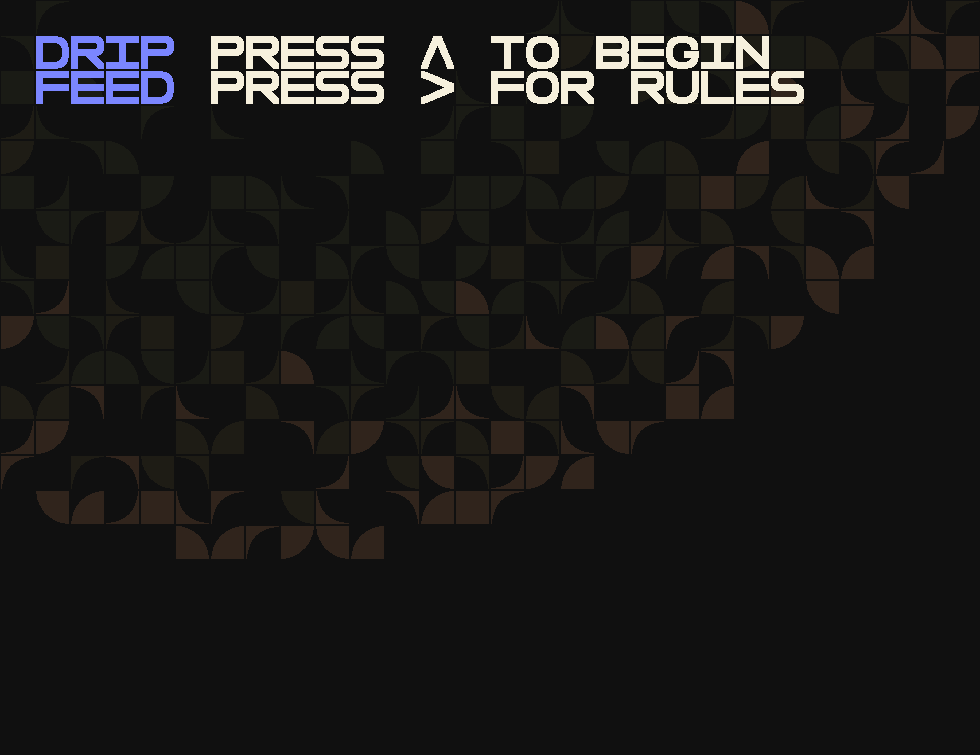
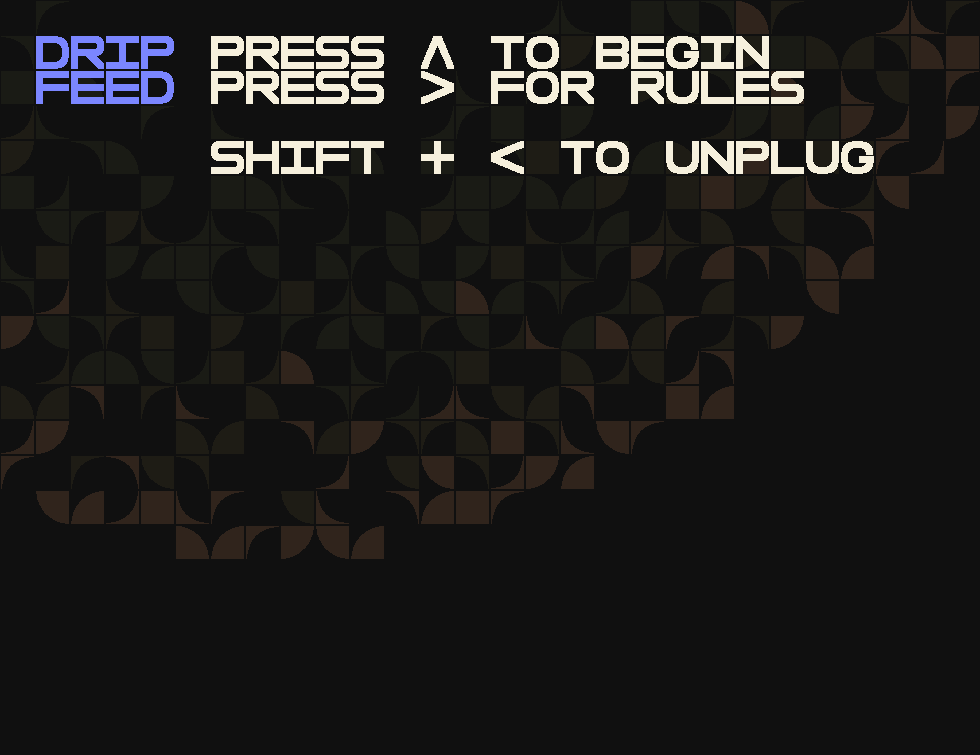
shift + < to unplug (reset hi-score)

diff --git a/src/scenes/Menu.js b/src/scenes/Menu.js
@@ -11,6 +11,10 @@ class Menu extends Phaser.Scene {
 
         // define cursors
         cursors = this.input.keyboard.createCursorKeys()
+
+        // hardcoding sorry (also taking advantage of my lack of lower-case letters) ->
+        this.reset = this.add.bitmapText(210, 175, 'rozyFont', 'reset', 35).setOrigin(0, 0)
+        this.successful = this.add.bitmapText(420, 175, 'rozyFont', 'successful', 35).setOrigin(0, 0)
     }
 
     update() {
@@ -21,6 +25,12 @@ class Menu extends Phaser.Scene {
         if(cursors.right.isDown) {
             this.sound.play('click2')
             this.scene.start('rulesScene')
+        }
+        if(cursors.shift.isDown && cursors.left.isDown) {
+            this.sound.play('click3')
+            this.reset.text = 'RESET'
+            this.successful.text = 'SUCCESSFUL'
+            localStorage.clear()
         }
     }
 }

diff --git a/src/scenes/Play.js b/src/scenes/Play.js
@@ -132,7 +132,7 @@ class Play extends Phaser.Scene {
             this.finalScoreUI.text = this.FINAL_SCORE
             this.exParticles()
             this.ex.move()
-            this.cameras.main.shake(80, 0.01)
+            this.cameras.main.shake(80, 0.02)
             this.sound.play('exCollide')
         }
 

diff --git a/src/main.js b/src/main.js
@@ -29,9 +29,3 @@ const { width, height } = game.config
 let cursors
 let hiScore
 let newHiScore = false
-
-// uncomment the following line if you need to purge local storage data
-//localStorage.clear()
-
-// OFFICE HOURS
-// [ ] why is the ui bar going so fast????
